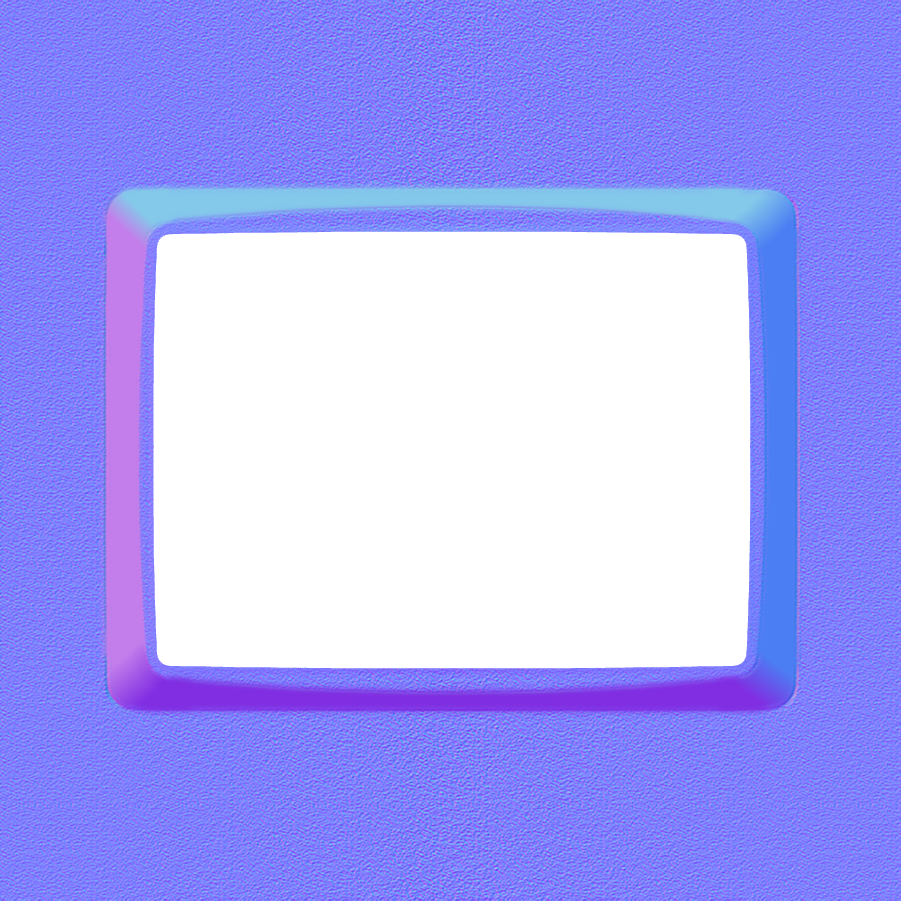
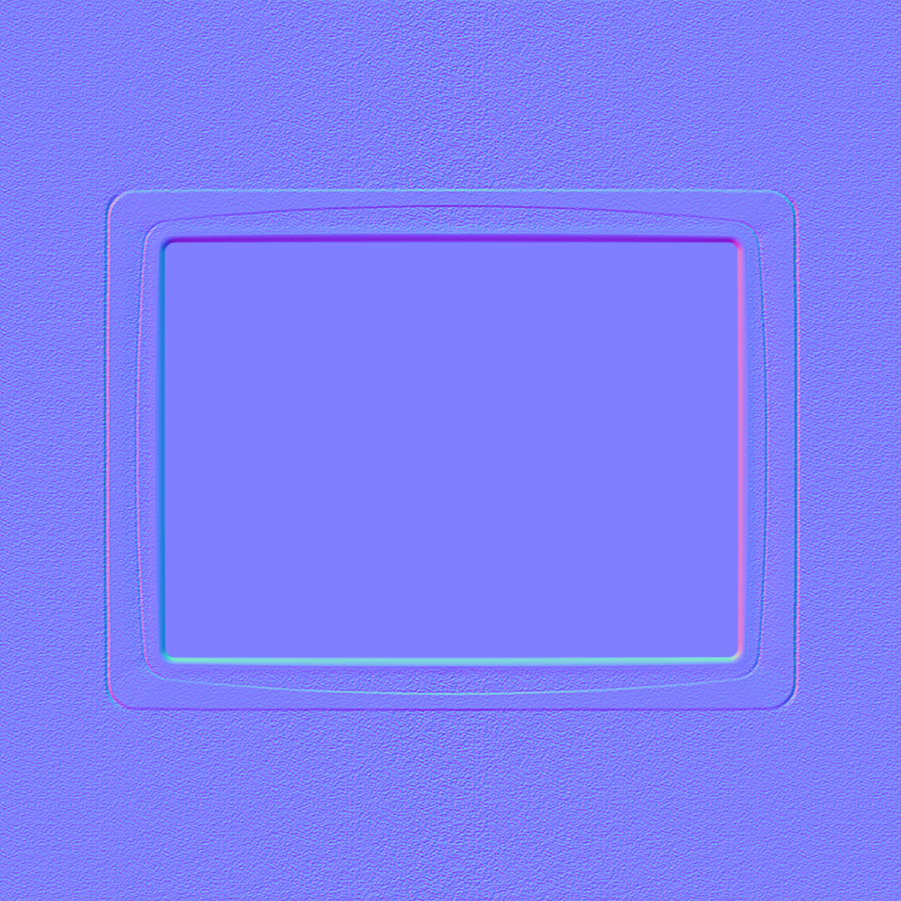
Improved frames. They are now faster, better looking, and more customizable. Also added a workaround for segementation faults when changing them.

diff --git a/app/qml/frames/utils/TerminalFrame.qml b/app/qml/frames/utils/TerminalFrame.qml
@@ -1,4 +1,7 @@
 import QtQuick 2.2
+import QtGraphicalEffects 1.0
+
+import "../../utils.js" as Utils
 
 Item{
     id: framecontainer
@@ -20,6 +23,10 @@ Item{
     property real displacementTop
     property real displacementRight
     property real displacementBottom
+
+    // Material coefficients
+    property real staticDiffuseComponent: 0.7
+    property real dinamycDiffuseComponent: 1.0
 
     property real distortionCoefficient
 
@@ -65,10 +72,138 @@ Item{
         textureSize: Qt.size(parent.width, parent.height)
         visible: false
     }
+
+    // REFLECTIONS ////////////////////////////////////////////////////////////
     Loader{
+        id: reflectionEffectLoader
+        width: parent.width * 0.33
+        height: parent.height * 0.33
+        active: appSettings.frameReflections
+
+        sourceComponent: FastBlur{
+            id: frameReflectionEffect
+            radius: 128
+            source: terminal.kterminal
+            smooth: false
+        }
+    }
+
+    Loader{
+        id: reflectionEffectSourceLoader
+        active: appSettings.frameReflections
+        sourceComponent: ShaderEffectSource{
+            id: frameReflectionSource
+            sourceItem: reflectionEffectLoader.item
+            hideSource: true
+            smooth: true
+            visible: false
+        }
+    }
+
+    // This texture represent the static light component.
+    ShaderEffect {
+        id: staticLight
+        property alias source: framesource
+        property alias normals: framesourcenormals
+        property real screen_distorsion: appSettings.screen_distortion * framecontainer.distortionCoefficient
+        property real ambient_light: appSettings.ambient_light
+        property color font_color: appSettings.font_color
+        property color background_color: appSettings.background_color
+        property color reflectionColor: Utils.mix(font_color, background_color, 0.2)
+        property real diffuseComponent: staticDiffuseComponent
+
         anchors.centerIn: parent
         width: parent.width + (addedWidth / textureWidth) * parent.width
         height: parent.height + (addedHeight / textureHeight) * parent.height
-        source: shaderString
+
+        blending: true
+
+        fragmentShader: "
+            uniform highp sampler2D normals;
+            uniform highp sampler2D source;
+            uniform lowp float screen_distorsion;
+            uniform lowp float ambient_light;
+            uniform highp float qt_Opacity;
+            uniform lowp vec4 reflectionColor;
+            uniform lowp float diffuseComponent;
+
+            varying highp vec2 qt_TexCoord0;
+
+            vec2 distortCoordinates(vec2 coords){
+                vec2 cc = coords - vec2(0.5);
+                float dist = dot(cc, cc) * screen_distorsion;
+                return (coords + cc * (1.0 + dist) * dist);
+            }
+
+            float rgb2grey(vec3 v){
+                return dot(v, vec3(0.21, 0.72, 0.04));
+            }
+
+            void main(){
+                vec2 coords = distortCoordinates(qt_TexCoord0);
+                vec4 txtColor = texture2D(source, coords);
+                vec4 txtNormal = texture2D(normals, coords);
+
+                vec3 normal = normalize(txtNormal.rgb * 2.0 - 1.0);
+                vec2 lightDirection = normalize(vec2(0.5, 0.5) - coords);
+                float dotProd = dot(normal, vec3(lightDirection, 0.0)) * diffuseComponent;
+
+                vec3 darkColor = dotProd * reflectionColor.rgb;
+                gl_FragColor = vec4(mix(darkColor, txtColor.rgb, ambient_light), dotProd);
+            }
+        "
+
+        onStatusChanged: if (log) console.log(log) //Print warning messages
+    }
+
+    ShaderEffectSource {
+        id: staticLightSource
+        sourceItem: staticLight
+        hideSource: true
+        anchors.fill: staticLight
+        live: true
+    }
+
+    Loader{
+        id: dynamicLightLoader
+        anchors.fill: staticLight
+        active: appSettings.frameReflections
+        sourceComponent: ShaderEffect {
+            property ShaderEffectSource lightMask: staticLightSource
+            property ShaderEffectSource reflectionSource: reflectionEffectSourceLoader.item
+            property real diffuseComponent: dinamycDiffuseComponent
+            property real chroma_color: appSettings.chroma_color
+            property color font_color: appSettings.font_color
+
+            visible: true
+            blending: true
+
+            fragmentShader: "
+                uniform sampler2D lightMask;
+                uniform sampler2D reflectionSource;
+                uniform lowp float diffuseComponent;
+                uniform lowp float chroma_color;
+                uniform highp vec4 font_color;
+                uniform highp float qt_Opacity;
+
+                varying highp vec2 qt_TexCoord0;
+
+                float rgb2grey(vec3 v){
+                    return dot(v, vec3(0.21, 0.72, 0.04));
+                }
+
+                void main() {
+                    float alpha = texture2D(lightMask, qt_TexCoord0).a * diffuseComponent;
+                    vec3 reflectionColor = texture2D(reflectionSource, qt_TexCoord0).rgb;
+                    vec3 color = font_color.rgb * rgb2grey(reflectionColor);" +
+                    (chroma_color !== 0 ?
+                        "color = mix(color, font_color.rgb * reflectionColor, chroma_color);"
+                    : "") +
+                    "gl_FragColor = vec4(color, 1.0) * alpha;
+                }
+            "
+
+            onStatusChanged: if (log) console.log(log) //Print warning messages
+        }
     }
 }

diff --git a/app/qml/ShaderTerminal.qml b/app/qml/ShaderTerminal.qml
@@ -49,10 +49,10 @@ ShaderEffect {
 
     property bool frameReflections: appSettings.frameReflections
 
-    property real disp_top: (frame.item.displacementTop * appSettings.window_scaling) / height
-    property real disp_bottom: (frame.item.displacementBottom * appSettings.window_scaling) / height
-    property real disp_left: (frame.item.displacementLeft * appSettings.window_scaling) / width
-    property real disp_right: (frame.item.displacementRight * appSettings.window_scaling) / width
+    property real disp_top: (frame.displacementTop * appSettings.window_scaling) / height
+    property real disp_bottom: (frame.displacementBottom * appSettings.window_scaling) / height
+    property real disp_left: (frame.displacementLeft * appSettings.window_scaling) / width
+    property real disp_right: (frame.displacementRight * appSettings.window_scaling) / width
 
     property real screen_brightness: appSettings.brightness * 1.5 + 0.5
 

diff --git a/app/qml/PreprocessedTerminal.qml b/app/qml/PreprocessedTerminal.qml
@@ -35,10 +35,10 @@ Item{
     property alias title: ksession.title
     property alias kterminal: kterminal
 
-    anchors.leftMargin: frame.item.displacementLeft * appSettings.window_scaling
-    anchors.rightMargin: frame.item.displacementRight * appSettings.window_scaling
-    anchors.topMargin: frame.item.displacementTop * appSettings.window_scaling
-    anchors.bottomMargin: frame.item.displacementBottom * appSettings.window_scaling
+    anchors.leftMargin: frame.displacementLeft * appSettings.window_scaling
+    anchors.rightMargin: frame.displacementRight * appSettings.window_scaling
+    anchors.topMargin: frame.displacementTop * appSettings.window_scaling
+    anchors.bottomMargin: frame.displacementBottom * appSettings.window_scaling
 
     //The blur effect has to take into account the framerate
     property real mBlur: appSettings.motion_blur

diff --git a/app/qml/ApplicationSettings.qml b/app/qml/ApplicationSettings.qml
@@ -78,7 +78,7 @@ Item{
 
     ListModel{
         id: framelist
-        ListElement{text: "No frame"; source: "./frames/NoFrame.qml"; reflections: false}
+        ListElement{text: "No frame"; source: ""; reflections: false}
         ListElement{text: "Simple white frame"; source: "./frames/WhiteSimpleFrame.qml"; reflections: true}
         ListElement{text: "Rough black frame"; source: "./frames/BlackRoughFrame.qml"; reflections: true}
     }
@@ -154,7 +154,7 @@ Item{
 
     // FRAMES /////////////////////////////////////////////////////////////////
 
-    property bool _frameReflections: true
+    property bool _frameReflections: false
     property bool reflectionsAllowed: framelist.get(frames_index).reflections
     property bool frameReflections: _frameReflections && reflectionsAllowed
 

diff --git a/app/qml/TerminalContainer.qml b/app/qml/TerminalContainer.qml
@@ -19,6 +19,15 @@ ShaderTerminal{
     Loader{
         id: frame
         anchors.fill: parent
+
+        property real displacementLeft: item ? item.displacementLeft : 0
+        property real displacementTop: item ? item.displacementTop : 0
+        property real displacementRight: item ? item.displacementRight : 0
+        property real displacementBottom: item ? item.displacementBottom : 0
+
+        asynchronous: true
+        visible: status === Loader.Ready
+
         z: 2.1
         source: appSettings.frame_source
     }

diff --git a/app/qml/frames/BlackRoughFrame.qml b/app/qml/frames/BlackRoughFrame.qml
@@ -21,5 +21,6 @@ TerminalFrame{
     displacementRight: 80.0
     displacementBottom: 65.0
 
-    shaderString: "FrameShader.qml"
+    staticDiffuseComponent: 1.0
+    dinamycDiffuseComponent: 0.6
 }

diff --git a/app/qml/frames/WhiteSimpleFrame.qml b/app/qml/frames/WhiteSimpleFrame.qml
@@ -21,5 +21,6 @@ TerminalFrame{
     displacementRight: 55
     displacementBottom: 50
 
-    shaderString: "FrameShader.qml"
+    staticDiffuseComponent: 1.0
+    dinamycDiffuseComponent: 0.6
 }
